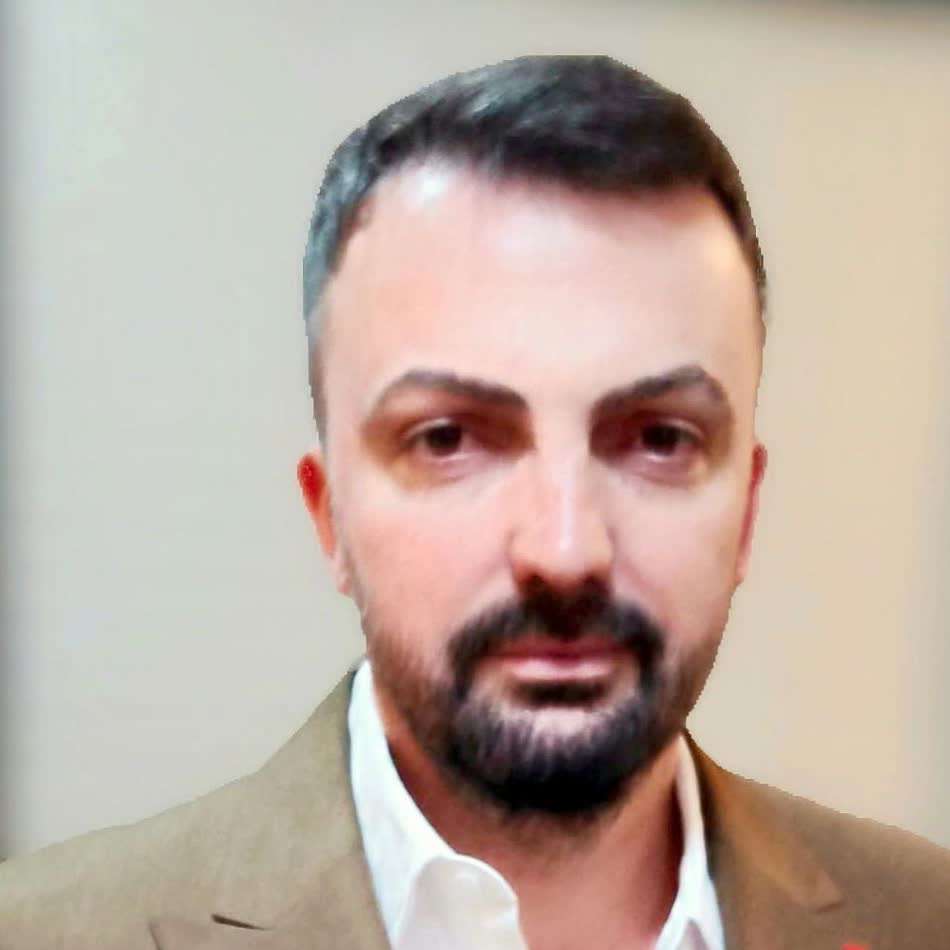
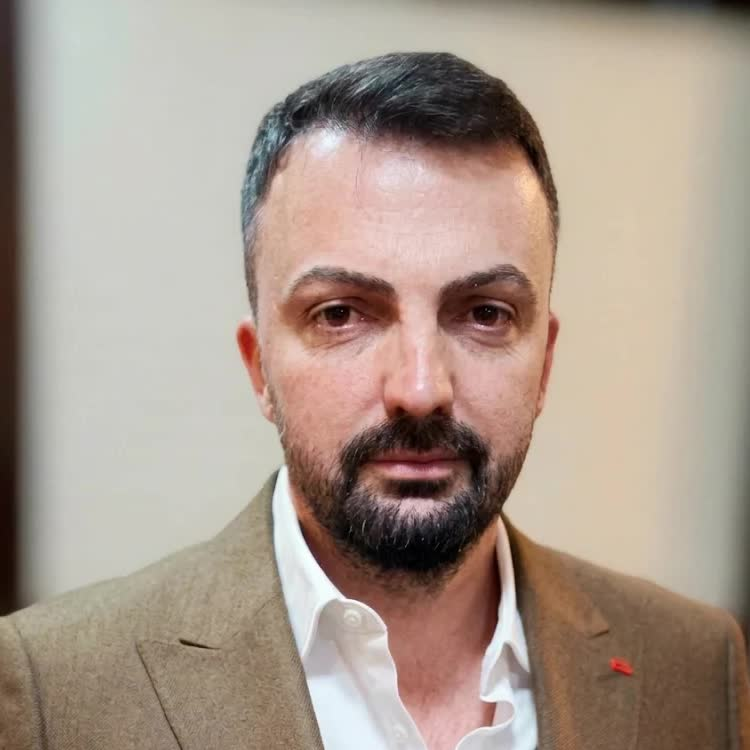
Update to higher-quality photos for three team members
- Florin Mihai: higher-res version of the same shot, re-cropped.
- Razvan Apostol: new photo, replaces the old .webp.
- Razvan Ion: new photo, replaces the earlier placeholder shot.

All cropped to fit the square card treatment consistently with the
rest of the team.

Claude-Session: https://claude.ai/code/session_01HbpKtVm1Vyh8CJsnLrpNWM

diff --git a/src/content/team/razvan-apostol.md b/src/content/team/razvan-apostol.md
@@ -3,7 +3,7 @@ name: "Razvan Apostol"
 role: "Process and Project Manager"
 phone: "+40 774 673 266"
 email: "razvan.apostol@hiieko.ro"
-photo: "./razvan-apostol.webp"
+photo: "./razvan-apostol.jpg"
 order: 3
 isPlaceholder: false
 ---
